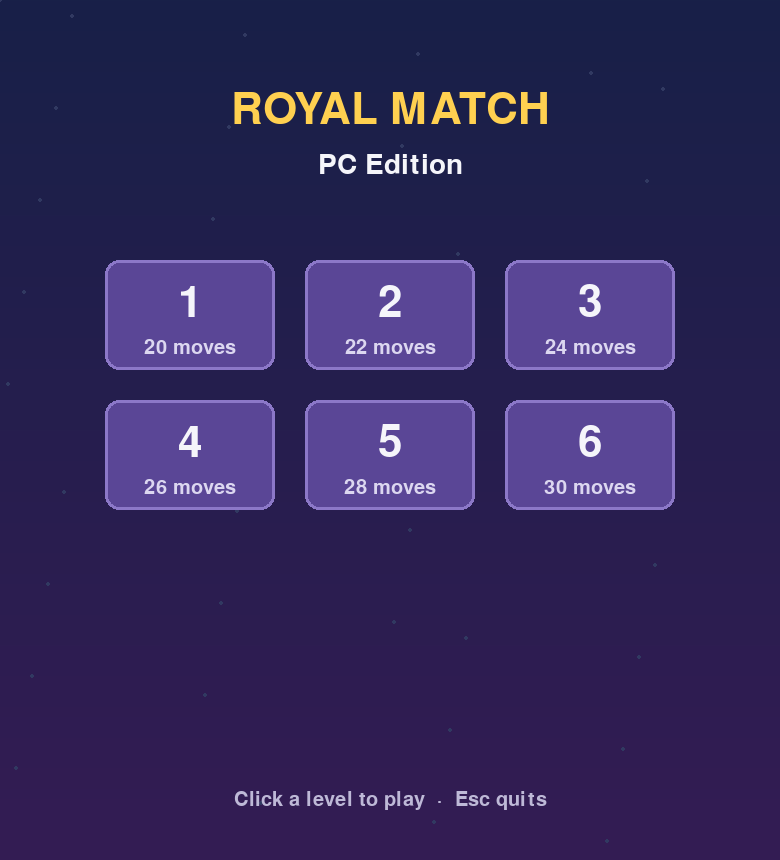
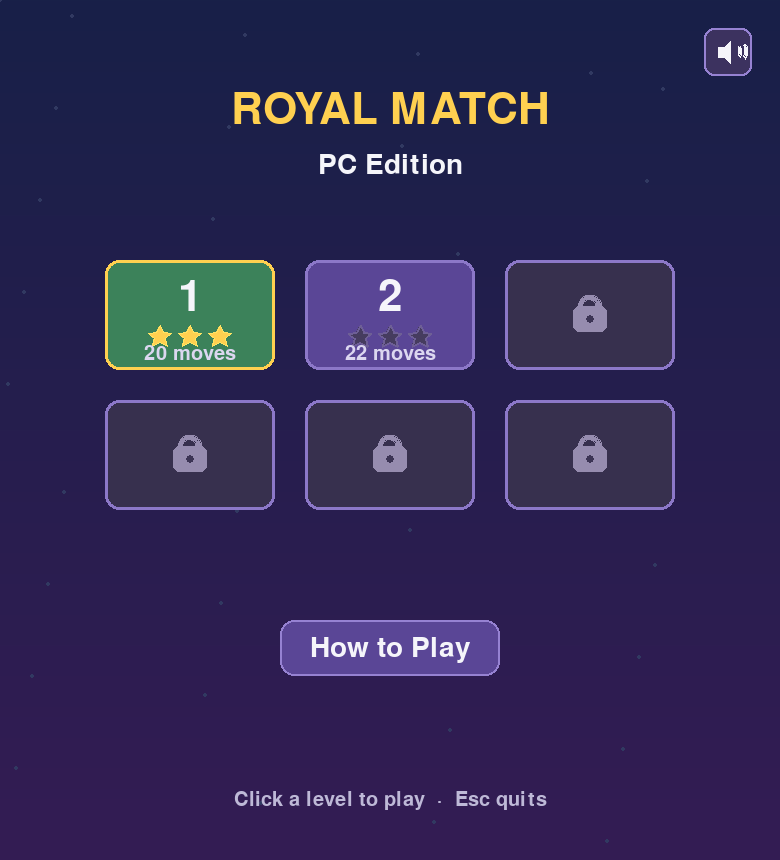
Add progression meta layer: stars, level unlocking, sound toggle, how-to-play
- Sequential level unlocking with padlocks on locked levels
- 1-3 star ratings per level based on moves left, shown on level select
  and animated on the win card; persisted in save.json
- Sound mute toggle (menu speaker button + M key), persisted
- In-game How to Play overlay explaining every special piece
- README updated to document the new meta features

https://claude.ai/code/session_0176F2k49qxDypDiM45Kmgd1

diff --git a/royal_match/game.py b/royal_match/game.py
@@ -41,6 +41,20 @@ def darken(color, amount=60):
     return tuple(max(0, ch - amount) for ch in color)
 
 
+def draw_star(surf, cx, cy, r, filled=True):
+    pts = []
+    for i in range(10):
+        a = -math.pi / 2 + i * math.pi / 5
+        rr = r if i % 2 == 0 else r * 0.45
+        pts.append((cx + math.cos(a) * rr, cy + math.sin(a) * rr))
+    if filled:
+        pygame.draw.polygon(surf, GOLD, pts)
+        pygame.draw.polygon(surf, lighten(GOLD, 20), pts, 1)
+    else:
+        pygame.draw.polygon(surf, (70, 60, 95), pts)
+        pygame.draw.polygon(surf, (110, 95, 150), pts, 2)
+
+
 # ---------------------------------------------------------------------------
 # Optional synthesized sound effects (no asset files needed).
 # ---------------------------------------------------------------------------
@@ -48,6 +62,7 @@ def darken(color, amount=60):
 class Sounds:
     def __init__(self):
         self.enabled = False
+        self.muted = False
         try:
             import numpy as np
             pygame.mixer.init(frequency=22050, size=-16, channels=2)
@@ -87,7 +102,7 @@ class Sounds:
         return pygame.sndarray.make_sound(np.column_stack([samples, samples]).copy())
 
     def play(self, name):
-        if self.enabled and name in self._cache:
+        if self.enabled and not self.muted and name in self._cache:
             self._cache[name].play()
 
 
@@ -268,7 +283,10 @@ class Game:
         self.sounds = Sounds()
         self.bg = self._make_background()
         self.save = self._load_save()
+        self.sounds.muted = bool(self.save.get("muted", False))
         self.scene = "menu"        # menu | play
+        self.show_help = False
+        self.earned_stars = 0
         self.state: GameState | None = None
         self.level_index = 0
         # play-scene visual state
@@ -289,11 +307,24 @@ class Game:
     # -- persistence --------------------------------------------------------
 
     def _load_save(self):
+        data = {"completed": [], "best": {}, "stars": {}, "muted": False}
         try:
             with open(SAVE_FILE) as f:
-                return json.load(f)
+                loaded = json.load(f)
+            if isinstance(loaded, dict):
+                data.update(loaded)
         except Exception:
-            return {"completed": [], "best": {}}
+            pass
+        return data
+
+    def _unlocked(self, index):
+        """A level is playable once the previous one has been completed."""
+        return index == 0 or LEVELS[index - 1].number in self.save["completed"]
+
+    @staticmethod
+    def _stars_for(moves_left, total_moves):
+        ratio = moves_left / total_moves if total_moves else 0
+        return 3 if ratio >= 0.4 else 2 if ratio >= 0.15 else 1
 
     def _write_save(self):
         try:
@@ -342,6 +373,7 @@ class Game:
         self.hint = None
         self.idle_time = 0.0
         self.end_timer = 0.0
+        self.earned_stars = 0
         self.banner = (f"Level {LEVELS[index].number}", 1.2)
         self._sync_visuals()
 
@@ -380,15 +412,43 @@ class Game:
         else:
             self._play_event(ev)
 
+    def _help_button_rect(self):
+        return pygame.Rect(WIDTH // 2 - 110, 620, 220, 56)
+
+    def _mute_button_rect(self):
+        return pygame.Rect(WIDTH - 76, 28, 48, 48)
+
+    def _toggle_mute(self):
+        self.sounds.muted = not self.sounds.muted
+        self.save["muted"] = self.sounds.muted
+        self._write_save()
+
     def _menu_event(self, ev):
-        if ev.type == pygame.MOUSEBUTTONDOWN and ev.button == 1:
-            for i in range(len(LEVELS)):
-                if self._level_button_rect(i).collidepoint(ev.pos):
-                    self.start_level(i)
-                    return
         if ev.type == pygame.KEYDOWN and ev.key == pygame.K_ESCAPE:
-            pygame.quit()
-            sys.exit()
+            if self.show_help:
+                self.show_help = False
+            else:
+                pygame.quit()
+                sys.exit()
+            return
+        if ev.type != pygame.MOUSEBUTTONDOWN or ev.button != 1:
+            return
+        if self.show_help:
+            self.show_help = False
+            return
+        if self._mute_button_rect().collidepoint(ev.pos):
+            self._toggle_mute()
+            return
+        if self._help_button_rect().collidepoint(ev.pos):
+            self.show_help = True
+            return
+        for i in range(len(LEVELS)):
+            if self._level_button_rect(i).collidepoint(ev.pos):
+                if self._unlocked(i):
+                    self.start_level(i)
+                else:
+                    self.sounds.play("lose")
+                return
 
     def _play_event(self, ev):
         if ev.type == pygame.KEYDOWN:
@@ -396,6 +456,8 @@ class Game:
                 self.scene = "menu"
             elif ev.key == pygame.K_r:
                 self.start_level(self.level_index)
+            elif ev.key == pygame.K_m:
+                self._toggle_mute()
             return
         if self.state.over and not self.phases:
             if ev.type == pygame.MOUSEBUTTONDOWN and ev.button == 1 and self.end_timer > 0.6:
@@ -514,8 +576,13 @@ class Game:
                 self.save["completed"].append(num)
             best = self.save["best"].get(str(num), 0)
             self.save["best"][str(num)] = max(best, self.state.score)
+            self.earned_stars = self._stars_for(self.state.moves_left,
+                                                self.state.level.moves)
+            prev_stars = self.save["stars"].get(str(num), 0)
+            self.save["stars"][str(num)] = max(prev_stars, self.earned_stars)
             self._write_save()
         else:
+            self.earned_stars = 0
             self.sounds.play("lose")
 
     def _finish_phase(self, phase):
@@ -605,20 +672,112 @@ class Game:
         for i, lvl in enumerate(LEVELS):
             rect = self._level_button_rect(i)
             done = lvl.number in self.save["completed"]
-            hover = rect.collidepoint(mouse)
-            base = (90, 70, 150) if not done else (60, 130, 90)
+            unlocked = self._unlocked(i)
+            hover = rect.collidepoint(mouse) and unlocked
+            if not unlocked:
+                base = (55, 48, 78)
+            elif done:
+                base = (60, 130, 90)
+            else:
+                base = (90, 70, 150)
             pygame.draw.rect(self.screen, lighten(base, 25) if hover else base, rect,
                              border_radius=14)
             pygame.draw.rect(self.screen, GOLD if done else (140, 120, 200), rect, 3,
                              border_radius=14)
+            if not unlocked:
+                self._draw_lock(rect.centerx, rect.centery - 4)
+                continue
             num = self.font_big.render(str(lvl.number), True, WHITE)
-            self.screen.blit(num, num.get_rect(center=(rect.centerx, rect.centery - 12)))
+            self.screen.blit(num, num.get_rect(center=(rect.centerx, rect.centery - 18)))
+            stars = self.save["stars"].get(str(lvl.number), 0)
+            for s in range(3):
+                draw_star(self.screen, rect.centerx + (s - 1) * 30, rect.centery + 22,
+                          12, filled=s < stars)
             best = self.save["best"].get(str(lvl.number))
-            tag = f"Best {best}" if best else f"{lvl.moves} moves"
+            tag = f"Best {best:,}" if best else f"{lvl.moves} moves"
             small = self.font.render(tag, True, (220, 215, 240))
-            self.screen.blit(small, small.get_rect(center=(rect.centerx, rect.bottom - 22)))
+            self.screen.blit(small, small.get_rect(center=(rect.centerx, rect.bottom - 16)))
+
+        help_rect = self._help_button_rect()
+        h_hover = help_rect.collidepoint(mouse)
+        pygame.draw.rect(self.screen, (90, 70, 150) if not h_hover else (110, 88, 175),
+                         help_rect, border_radius=14)
+        pygame.draw.rect(self.screen, (150, 130, 210), help_rect, 2, border_radius=14)
+        ht = self.font_med.render("How to Play", True, WHITE)
+        self.screen.blit(ht, ht.get_rect(center=help_rect.center))
+
+        self._draw_mute_button()
         tip = self.font.render("Click a level to play  ·  Esc quits", True, (190, 185, 215))
         self.screen.blit(tip, tip.get_rect(center=(WIDTH // 2, HEIGHT - 60)))
+        if self.show_help:
+            self._draw_help()
+
+    def _draw_lock(self, cx, cy):
+        body = pygame.Rect(0, 0, 34, 26)
+        body.center = (cx, cy + 8)
+        pygame.draw.rect(self.screen, (150, 140, 175), body, border_radius=6)
+        pygame.draw.arc(self.screen, (150, 140, 175),
+                        pygame.Rect(cx - 12, cy - 16, 24, 28), 0.2, math.pi - 0.2, 5)
+        pygame.draw.circle(self.screen, (60, 52, 85), (cx, body.centery), 4)
+
+    def _draw_mute_button(self):
+        rect = self._mute_button_rect()
+        pygame.draw.rect(self.screen, (60, 50, 95), rect, border_radius=10)
+        pygame.draw.rect(self.screen, (150, 130, 210), rect, 2, border_radius=10)
+        cx, cy = rect.center
+        pygame.draw.polygon(self.screen, WHITE,
+                            [(cx - 10, cy - 5), (cx - 4, cy - 5), (cx + 2, cy - 11),
+                             (cx + 2, cy + 11), (cx - 4, cy + 5), (cx - 10, cy + 5)])
+        if self.sounds.muted:
+            pygame.draw.line(self.screen, (255, 110, 100), (cx + 6, cy - 9),
+                             (cx + 14, cy + 9), 3)
+        else:
+            for i in range(2):
+                pygame.draw.arc(self.screen, WHITE,
+                                pygame.Rect(cx + 2, cy - 8 - i * 3, 12 + i * 6, 16 + i * 6),
+                                -0.7, 0.7, 2)
+
+    def _draw_help(self):
+        overlay = pygame.Surface((WIDTH, HEIGHT), pygame.SRCALPHA)
+        overlay.fill((8, 6, 24, 210))
+        self.screen.blit(overlay, (0, 0))
+        card = pygame.Rect(0, 0, 640, 640)
+        card.center = (WIDTH // 2, HEIGHT // 2)
+        pygame.draw.rect(self.screen, (40, 32, 86), card, border_radius=20)
+        pygame.draw.rect(self.screen, GOLD, card, 4, border_radius=20)
+        title = self.font_big.render("HOW TO PLAY", True, GOLD)
+        self.screen.blit(title, title.get_rect(center=(card.centerx, card.y + 50)))
+        lines = [
+            "Swap two neighbours to line up 3+ of a color.",
+            "Complete the goals before you run out of moves.",
+            "Tap a special to fire it, or swap two for a combo.",
+        ]
+        y = card.y + 100
+        for line in lines:
+            t = self.font.render(line, True, (220, 215, 240))
+            self.screen.blit(t, t.get_rect(center=(card.centerx, y)))
+            y += 30
+        specials = [
+            (Piece(Color.BLUE, Special.ROCKET_H), "Rocket", "Match 4 in a line.",
+             "Clears a whole row or column."),
+            (Piece(Color.PURPLE, Special.PROPELLER), "Propeller", "Match a 2x2 square.",
+             "Hits neighbours and an obstacle."),
+            (Piece(Color.RED, Special.TNT), "TNT", "Match an L or T of 5.",
+             "Explodes a wide radius."),
+            (Piece(None, Special.LIGHT_BALL), "Light Ball", "Match 5 in a line.",
+             "Clears every piece of one color."),
+        ]
+        y = card.y + 210
+        for piece, name, how, effect in specials:
+            draw_piece(self.screen, piece, card.x + 40, y - CELL // 2 + 14, CELL)
+            n = self.font_med.render(name, True, GOLD)
+            self.screen.blit(n, (card.x + 120, y - 26))
+            d = self.font.render(f"{how}  {effect}", True, (215, 210, 235))
+            self.screen.blit(d, (card.x + 120, y + 6))
+            y += 86
+        close = self.font.render("Click anywhere or press Esc to close",
+                                 True, (180, 175, 210))
+        self.screen.blit(close, close.get_rect(center=(card.centerx, card.bottom - 30)))
 
     def _draw_play(self):
         self._draw_hud()
@@ -672,8 +831,9 @@ class Game:
             name = self.font.render(goal.label(), True, (200, 195, 225))
             self.screen.blit(name, name.get_rect(midbottom=(rect.centerx, rect.bottom - 6)))
             x += 132
-        hint = self.font.render("Esc: menu   R: restart   Tap a special to fire it",
-                                True, (170, 165, 200))
+        mute_txt = "M: unmute" if self.sounds.muted else "M: mute"
+        hint = self.font.render(f"Esc: menu   R: restart   {mute_txt}   "
+                                "Tap a special to fire it", True, (170, 165, 200))
         self.screen.blit(hint, (24, 100))
 
     def _draw_board(self):
@@ -770,28 +930,42 @@ class Game:
         return moving, offsets, scales
 
     def _draw_endcard(self):
+        won = self.state.won
         overlay = pygame.Surface((WIDTH, HEIGHT), pygame.SRCALPHA)
         overlay.fill((10, 8, 30, 170))
         self.screen.blit(overlay, (0, 0))
-        card = pygame.Rect(0, 0, 480, 320)
+        card = pygame.Rect(0, 0, 480, 360 if won else 300)
         card.center = (WIDTH // 2, HEIGHT // 2)
         pygame.draw.rect(self.screen, (45, 35, 95), card, border_radius=20)
-        pygame.draw.rect(self.screen, GOLD if self.state.won else (200, 90, 90),
-                         card, 4, border_radius=20)
-        title = "LEVEL COMPLETE!" if self.state.won else "OUT OF MOVES"
-        t = self.font_big.render(title, True, GOLD if self.state.won else (255, 130, 120))
-        self.screen.blit(t, t.get_rect(center=(card.centerx, card.y + 70)))
-        s = self.font_med.render(f"Score: {self.state.score:,}", True, WHITE)
-        self.screen.blit(s, s.get_rect(center=(card.centerx, card.y + 140)))
-        if self.state.won:
+        pygame.draw.rect(self.screen, GOLD if won else (200, 90, 90), card, 4,
+                         border_radius=20)
+        title = "LEVEL COMPLETE!" if won else "OUT OF MOVES"
+        t = self.font_big.render(title, True, GOLD if won else (255, 130, 120))
+        self.screen.blit(t, t.get_rect(center=(card.centerx, card.y + 55)))
+        if won:
+            # stars pop in one by one as the card settles
+            for s in range(3):
+                appear = self.end_timer > 0.3 + s * 0.25
+                scale = 1.0
+                if appear and self.end_timer < 0.55 + s * 0.25:
+                    scale = 1.4
+                draw_star(self.screen, card.centerx + (s - 1) * 64, card.y + 130,
+                          int(26 * scale), filled=s < self.earned_stars and appear)
+            s = self.font_med.render(f"Score: {self.state.score:,}", True, WHITE)
+            self.screen.blit(s, s.get_rect(center=(card.centerx, card.y + 200)))
             nxt = "Click for next level" if self.level_index + 1 < len(LEVELS) \
                 else "Click for menu — all levels done!"
+            n = self.font.render(nxt, True, (210, 205, 235))
+            self.screen.blit(n, n.get_rect(center=(card.centerx, card.y + 260)))
+            esc = self.font.render("Esc for level select", True, (170, 165, 200))
+            self.screen.blit(esc, esc.get_rect(center=(card.centerx, card.y + 300)))
         else:
-            nxt = "Click to retry"
-        n = self.font.render(nxt, True, (210, 205, 235))
-        self.screen.blit(n, n.get_rect(center=(card.centerx, card.y + 220)))
-        esc = self.font.render("Esc for level select", True, (170, 165, 200))
-        self.screen.blit(esc, esc.get_rect(center=(card.centerx, card.y + 260)))
+            s = self.font_med.render(f"Score: {self.state.score:,}", True, WHITE)
+            self.screen.blit(s, s.get_rect(center=(card.centerx, card.y + 130)))
+            n = self.font.render("Click to retry", True, (210, 205, 235))
+            self.screen.blit(n, n.get_rect(center=(card.centerx, card.y + 200)))
+            esc = self.font.render("Esc for level select", True, (170, 165, 200))
+            self.screen.blit(esc, esc.get_rect(center=(card.centerx, card.y + 240)))
 
     # -- main loop ---------------------------------------------------------------
 

diff --git a/README.md b/README.md
@@ -43,8 +43,20 @@ the whole board.
   Tough boxes (marked `2`) take two hits.
 - Goals can be: collect N pieces of a color, clear all grass, break boxes.
 
-There are 6 levels of increasing difficulty. Progress and best scores are
-saved to `save.json`.
+## Progression
+
+There are 6 levels of increasing difficulty. Levels unlock one at a time —
+clear the current one to open the next.
+
+- **Stars** — finish a level with moves to spare to earn up to 3 stars
+  (the more moves left, the more stars). Your best star count shows on the
+  level-select screen.
+- Progress, stars, best scores, and your sound preference are saved to
+  `save.json`.
+
+![Level select](docs/menu.png)
+
+A built-in **How to Play** screen (button on the menu) explains every special.
 
 ## Controls
 
@@ -52,6 +64,7 @@ saved to `save.json`.
 |---|---|
 | Left click / drag | Select, swap, tap specials |
 | `R` | Restart level |
+| `M` | Toggle sound on/off |
 | `Esc` | Back to level select / quit |
 
 ## Development
